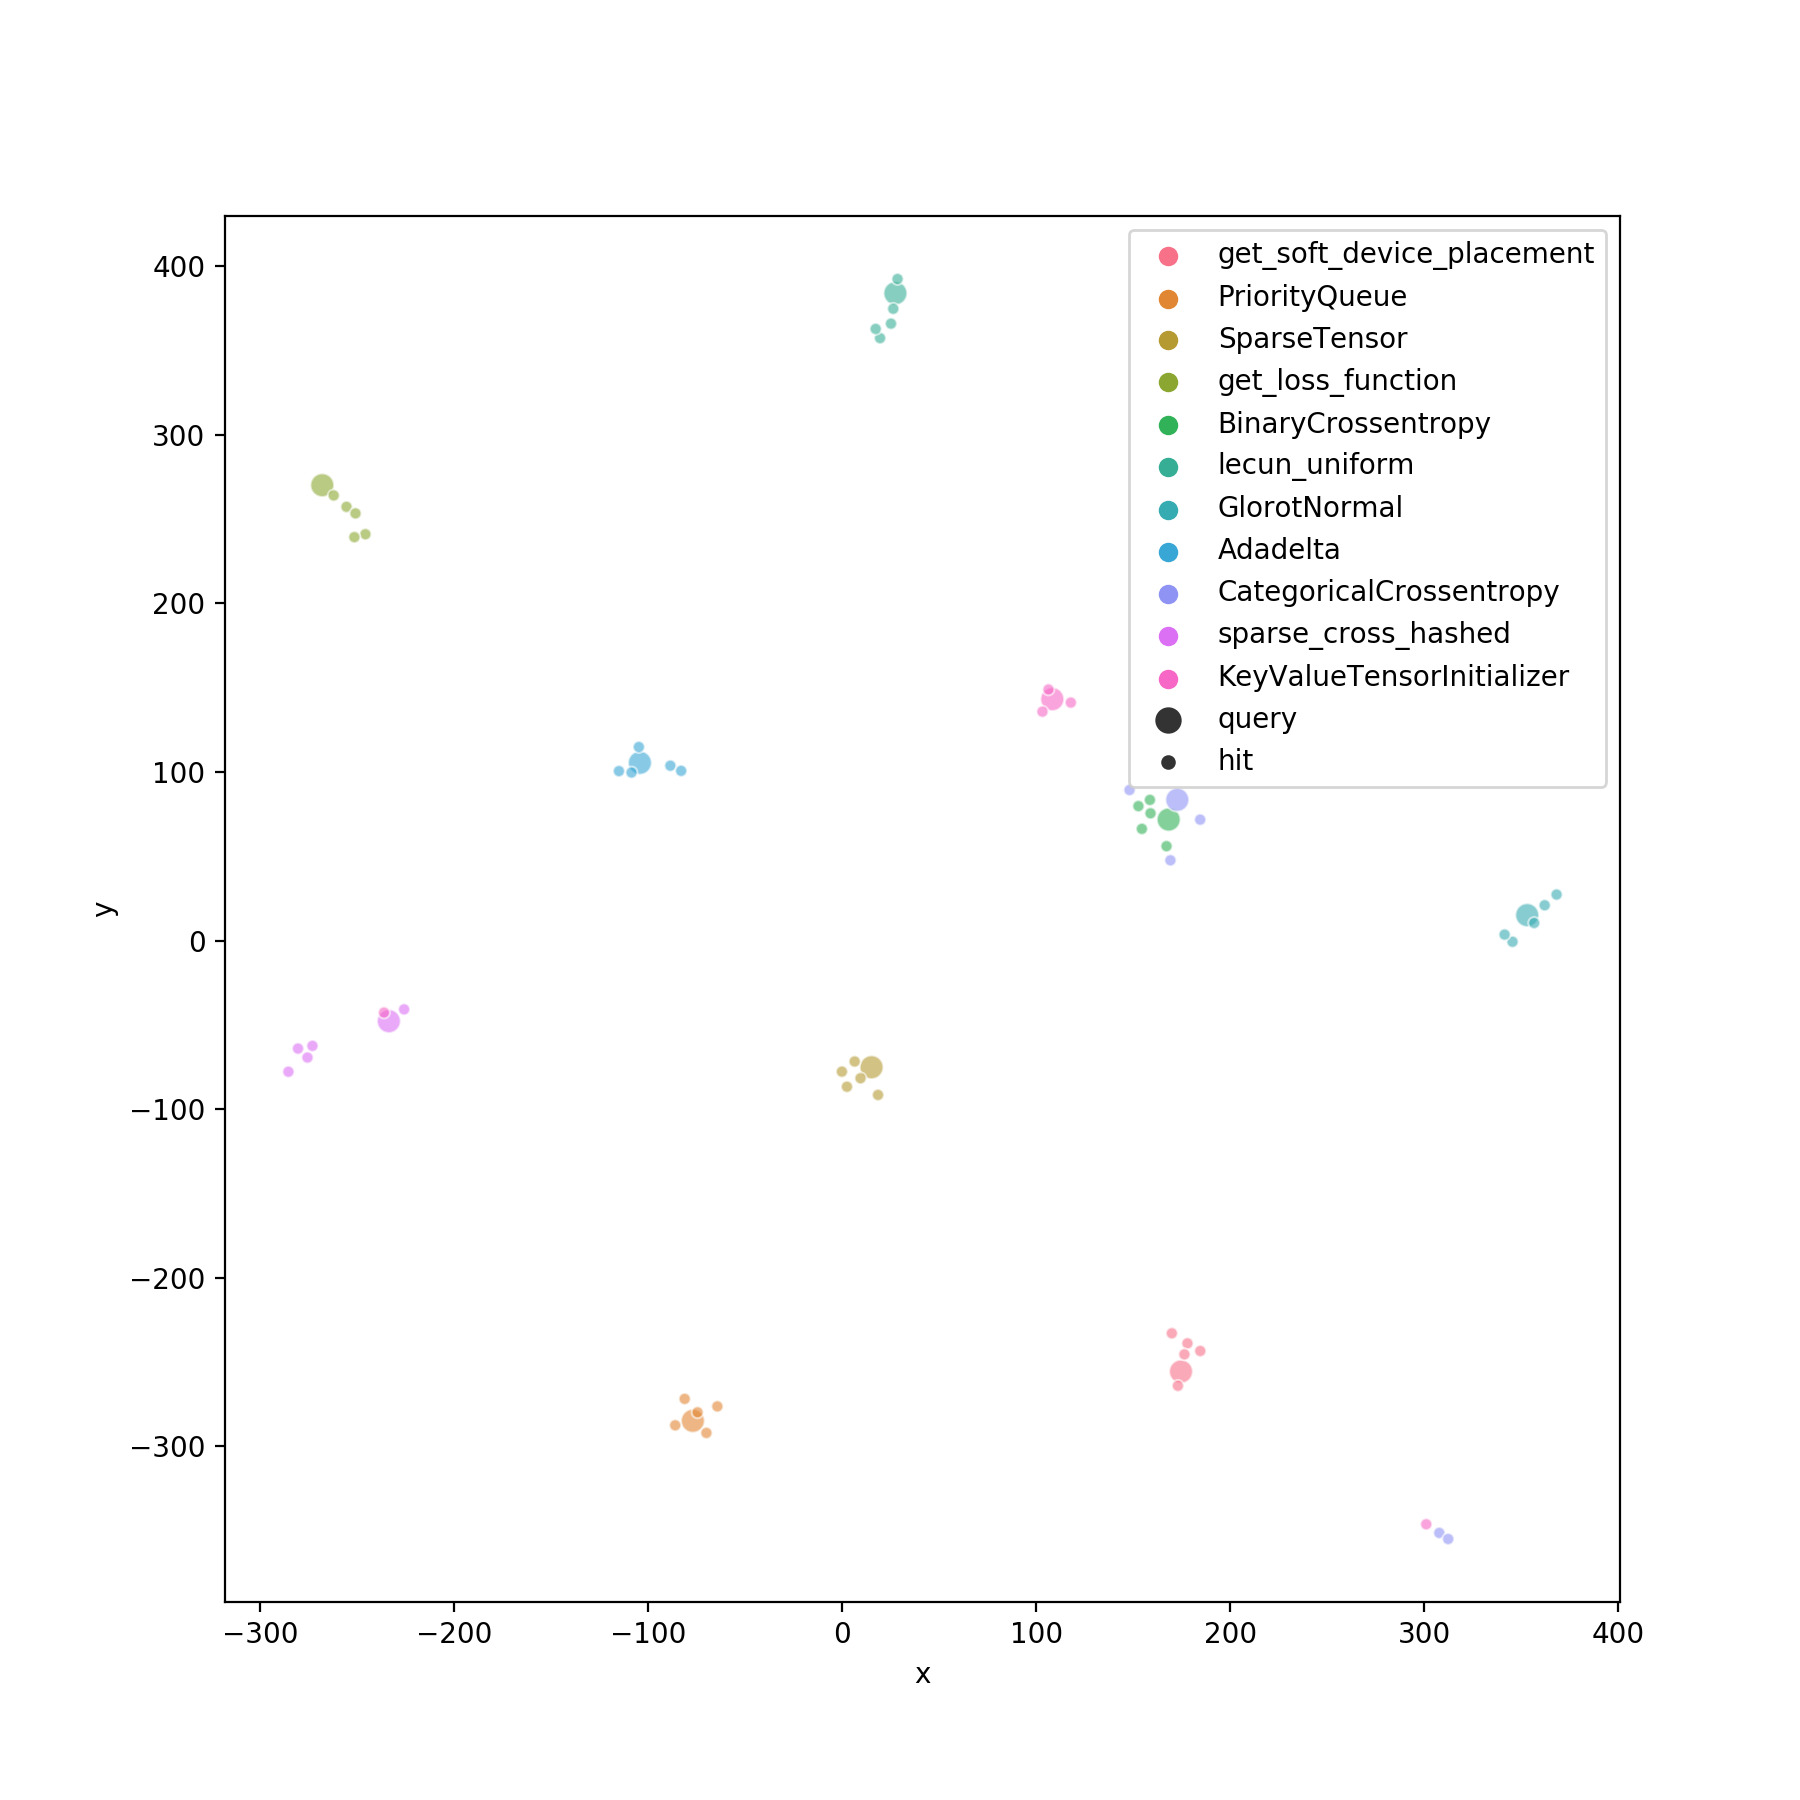
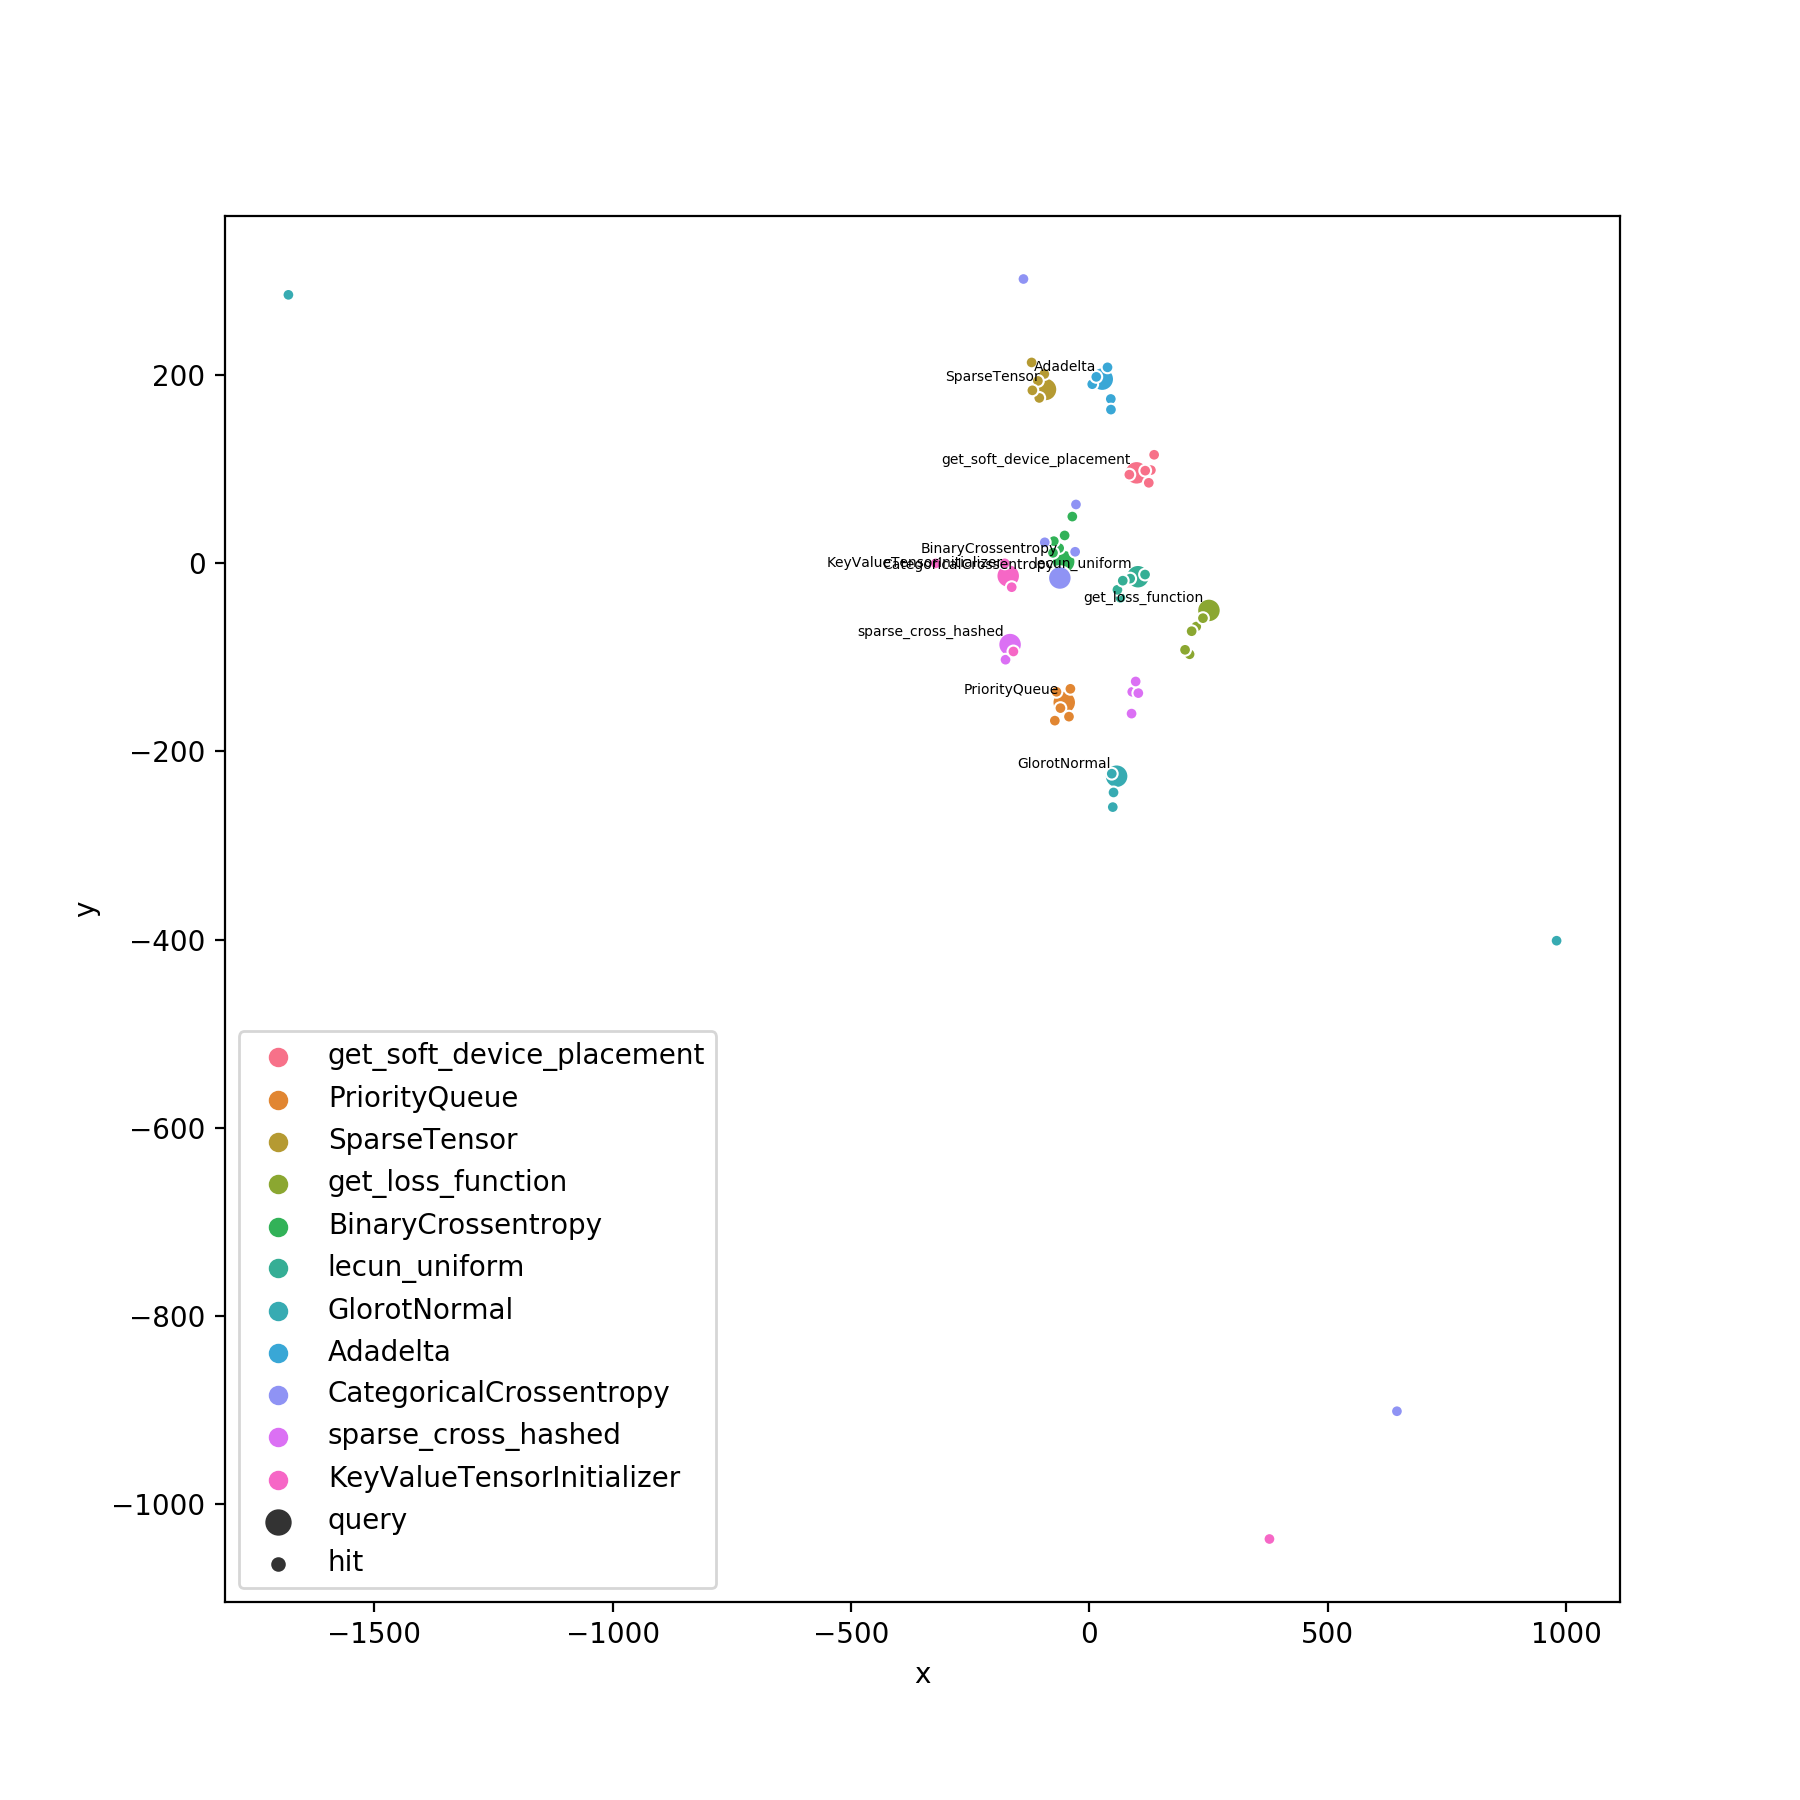
added labels to t-SNE plot

diff --git a/prec-recall.py b/prec-recall.py
@@ -76,47 +76,44 @@ for engine in range(len(query.engines)):
 
 
 def calc_tsne_lsi():
-    vectors = []
+    embeddings = []
     hue = []
     size = []
     for i, gt in enumerate(gts):
         bows = [query.corpus[hit[0]] for hit in gt.query.res_lsi] + [gt.query.query_bow]
         lsi_query_vec = [[e[1] for e in query.lsi_model[b]] for b in bows]
-        vectors += lsi_query_vec
-        col = [gt.entity] * len(lsi_query_vec)
-        hue += col
+        embeddings += lsi_query_vec
+        hue += [gt.entity] * len(lsi_query_vec)
         # point marker size
         size += ['query']
         size += (['hit'] * (len(lsi_query_vec) - 1))
-    return vectors, hue, size
+    return embeddings, hue, size
 
 
 def calc_tsne_doc2vec():
-    vectors = []
+    embeddings = []
     hue = []
     size = []
     for i, gt in enumerate(gts):
-        print()
-        print(gt.entity)
         query_vec = [query.doc2vec_model.infer_vector(gt.query.query_words)]
         for hit_idx, sim in gt.query.res_doc2vec:
             doc_words = query.documents[hit_idx][0]
             doc_vec = query.doc2vec_model.infer_vector(doc_words)
             query_vec += [doc_vec]
 
-        vectors += query_vec
+        embeddings += query_vec
 
-        col = [gt.entity] * len(query_vec)
-        hue += col
+        hue += [gt.entity] * len(query_vec)
         # point marker size
         size += ['query']
         size += (['hit'] * (len(query_vec) - 1))
-    return vectors, hue, size
+    return embeddings, hue, size
 
 
-def plot_tsne(filename, all_results, hue, size):
+def plot_tsne(filename, embeddings, hue, size):
+    print('generating', filename)
     tsne = TSNE(n_components=2, verbose=0, perplexity=2, n_iter=3000)
-    tsne_results = tsne.fit_transform(all_results)
+    tsne_results = tsne.fit_transform(embeddings)
     df_subset = pd.DataFrame()
     df_subset['x'] = tsne_results[:, 0]
     df_subset['y'] = tsne_results[:, 1]
@@ -128,11 +125,24 @@ def plot_tsne(filename, all_results, hue, size):
         size=size,
         data=df_subset,
         legend="full",
-        alpha=0.6
+        alpha=1.0
     )
+    for idx, coo in enumerate(zip(tsne_results[:, 0], tsne_results[:, 1])):
+        if idx % 6 != 0:
+            continue
+        x, y = coo
+        plt.annotate(
+            hue[idx],
+            xy=(x, y), xytext=(-2, 2),
+            textcoords='offset points', ha='right', va='bottom',
+            fontsize=5
+            # bbox=dict(boxstyle='round,pad=1.', fc='yellow', alpha=0.5),
+            #arrowprops=dict(arrowstyle='<-', connectionstyle='arc3,rad=0')
+        )
     plt.savefig(filename)
     # plt.show()
 
 
+print()
 plot_tsne('plot-doc2vec.png', *calc_tsne_doc2vec())
 plot_tsne('plot-lsi.png', *calc_tsne_lsi())
